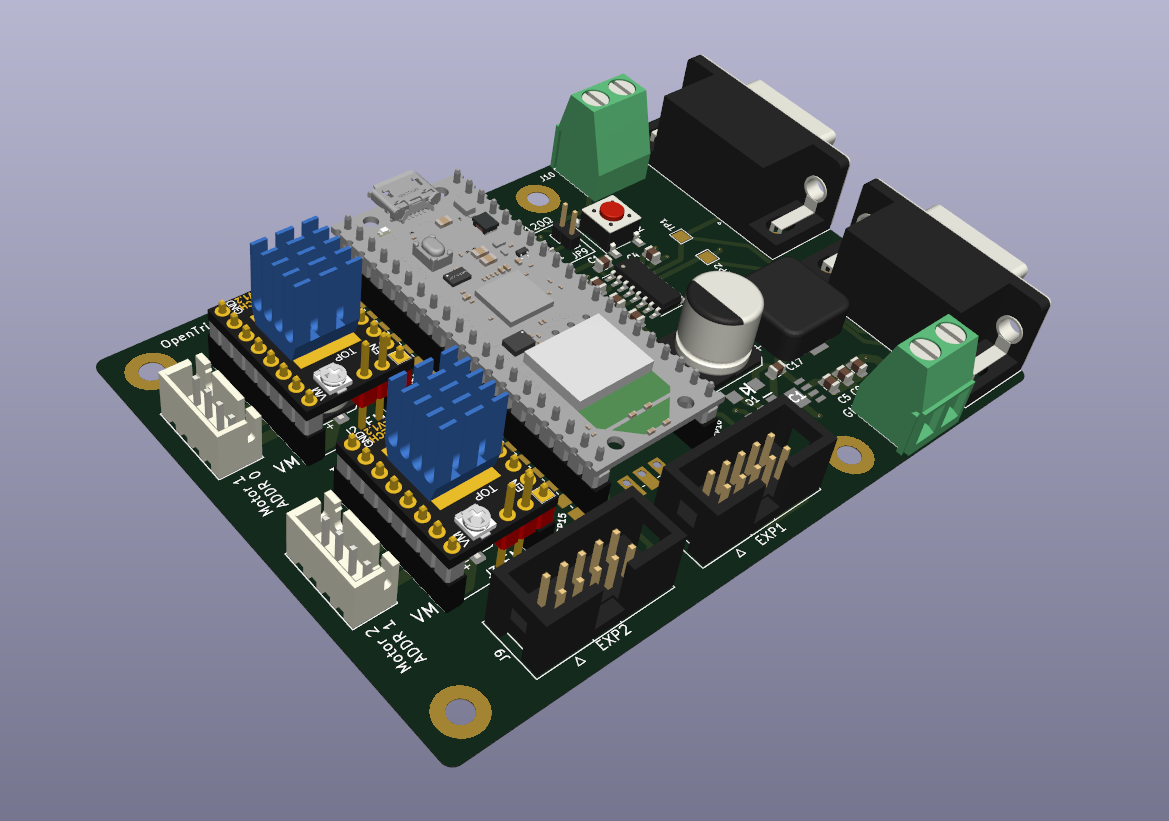
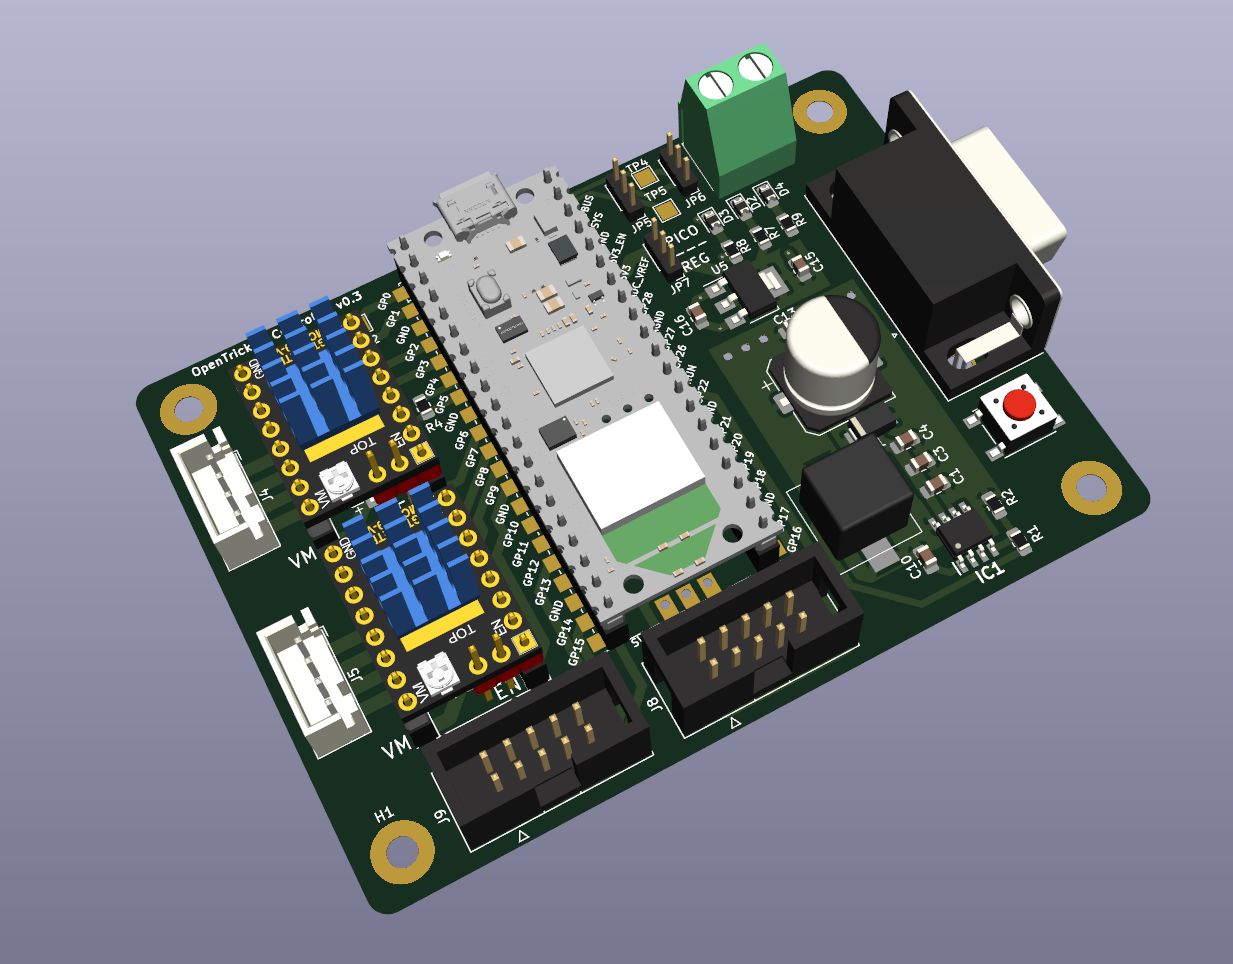
Update document

diff --git a/README.md b/README.md
@@ -36,3 +36,5 @@ A 3D printable enclosure is also supplied in [enclosure](enclosure) directory.
 Revisions
 * v0.1: Initial release.
 * v0.2: Add 2x 100uF caps for stepper motor driver power supply. 
+* v0.3: Fix issues found on v0.2 design. See details at [release](https://github.com/eamars/RaspberryPi-Pico-Motor-Expansion-Board/releases/tag/v0.3) page. 
+Noted the NEOPIXEL output is moved from GP26 to GP13 from this revision. 
